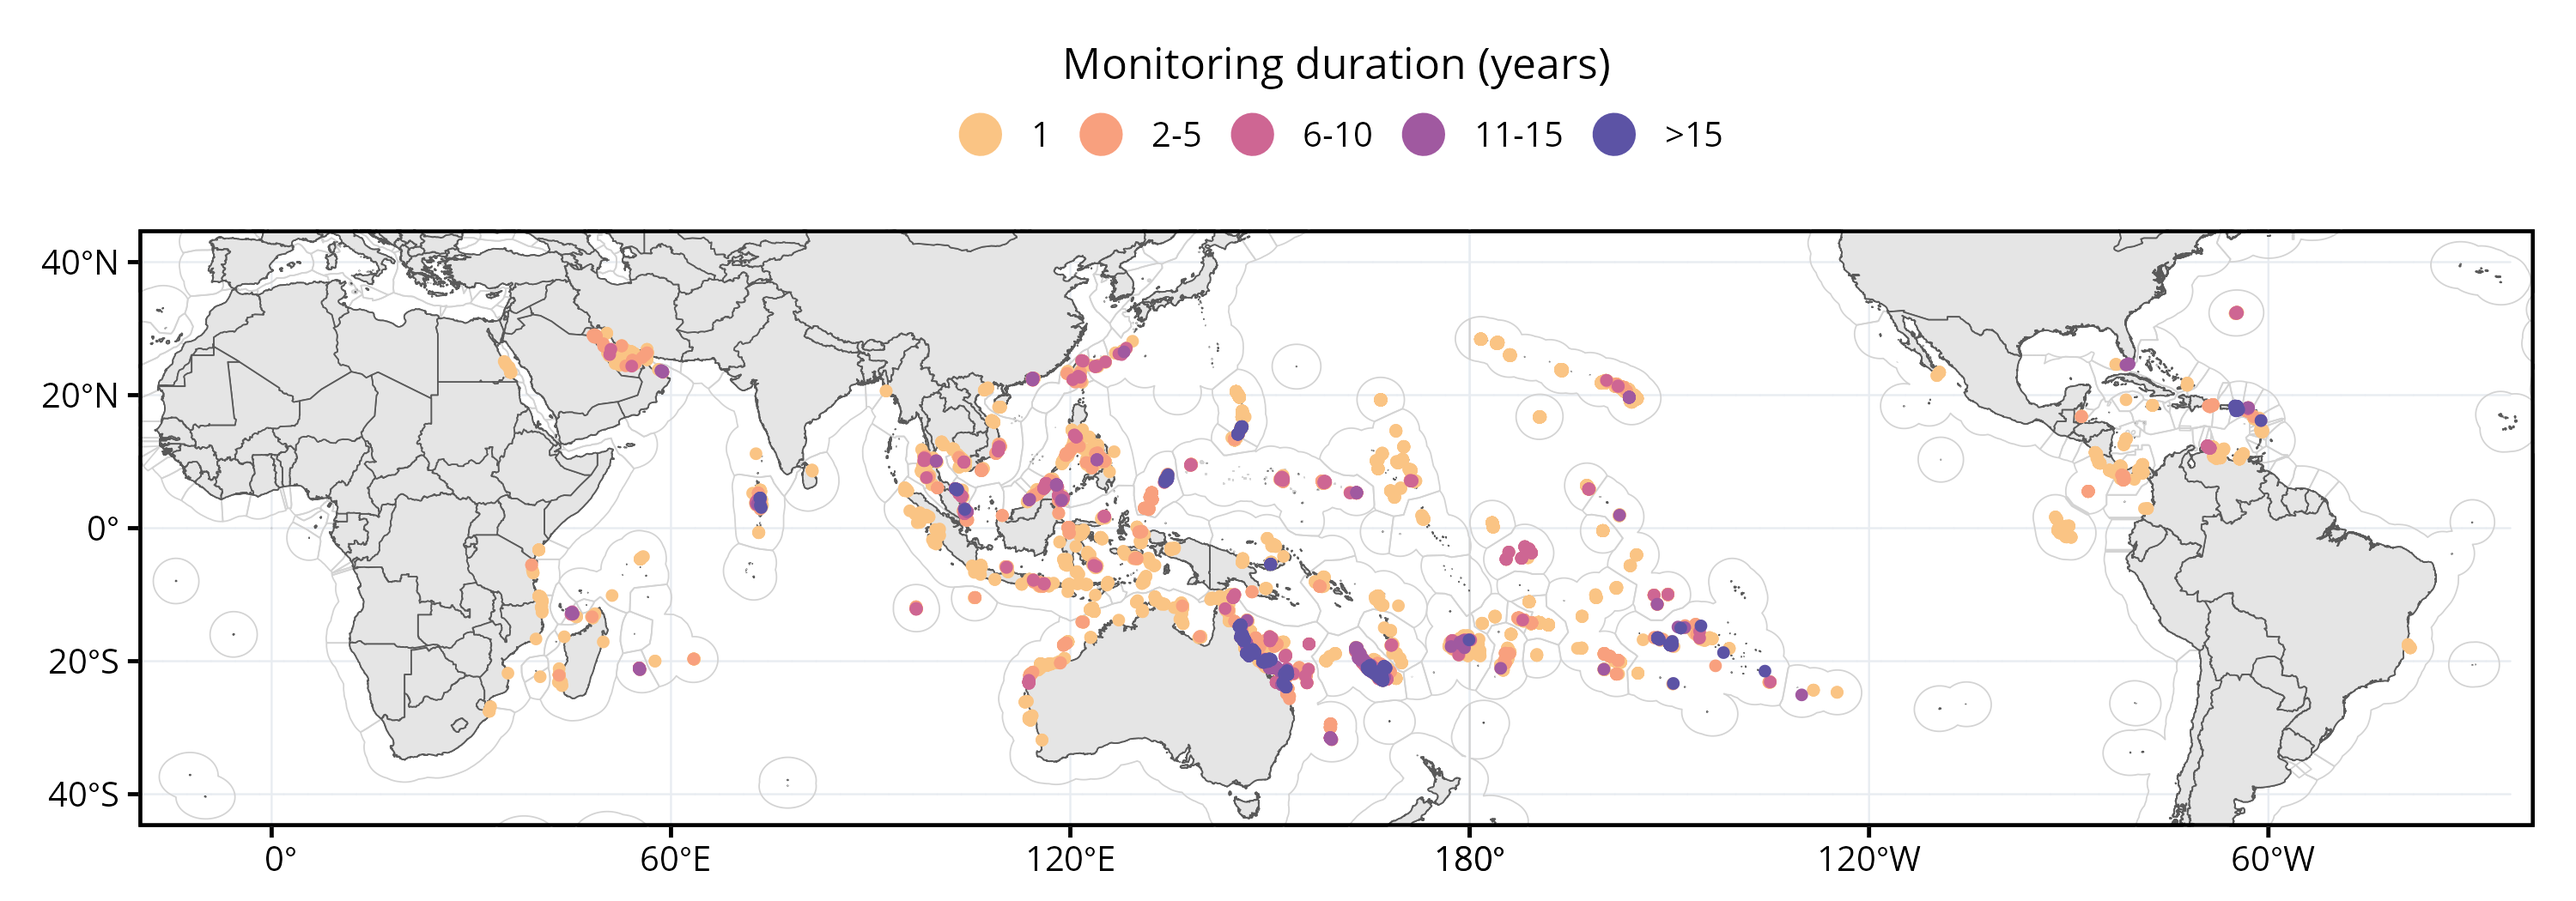
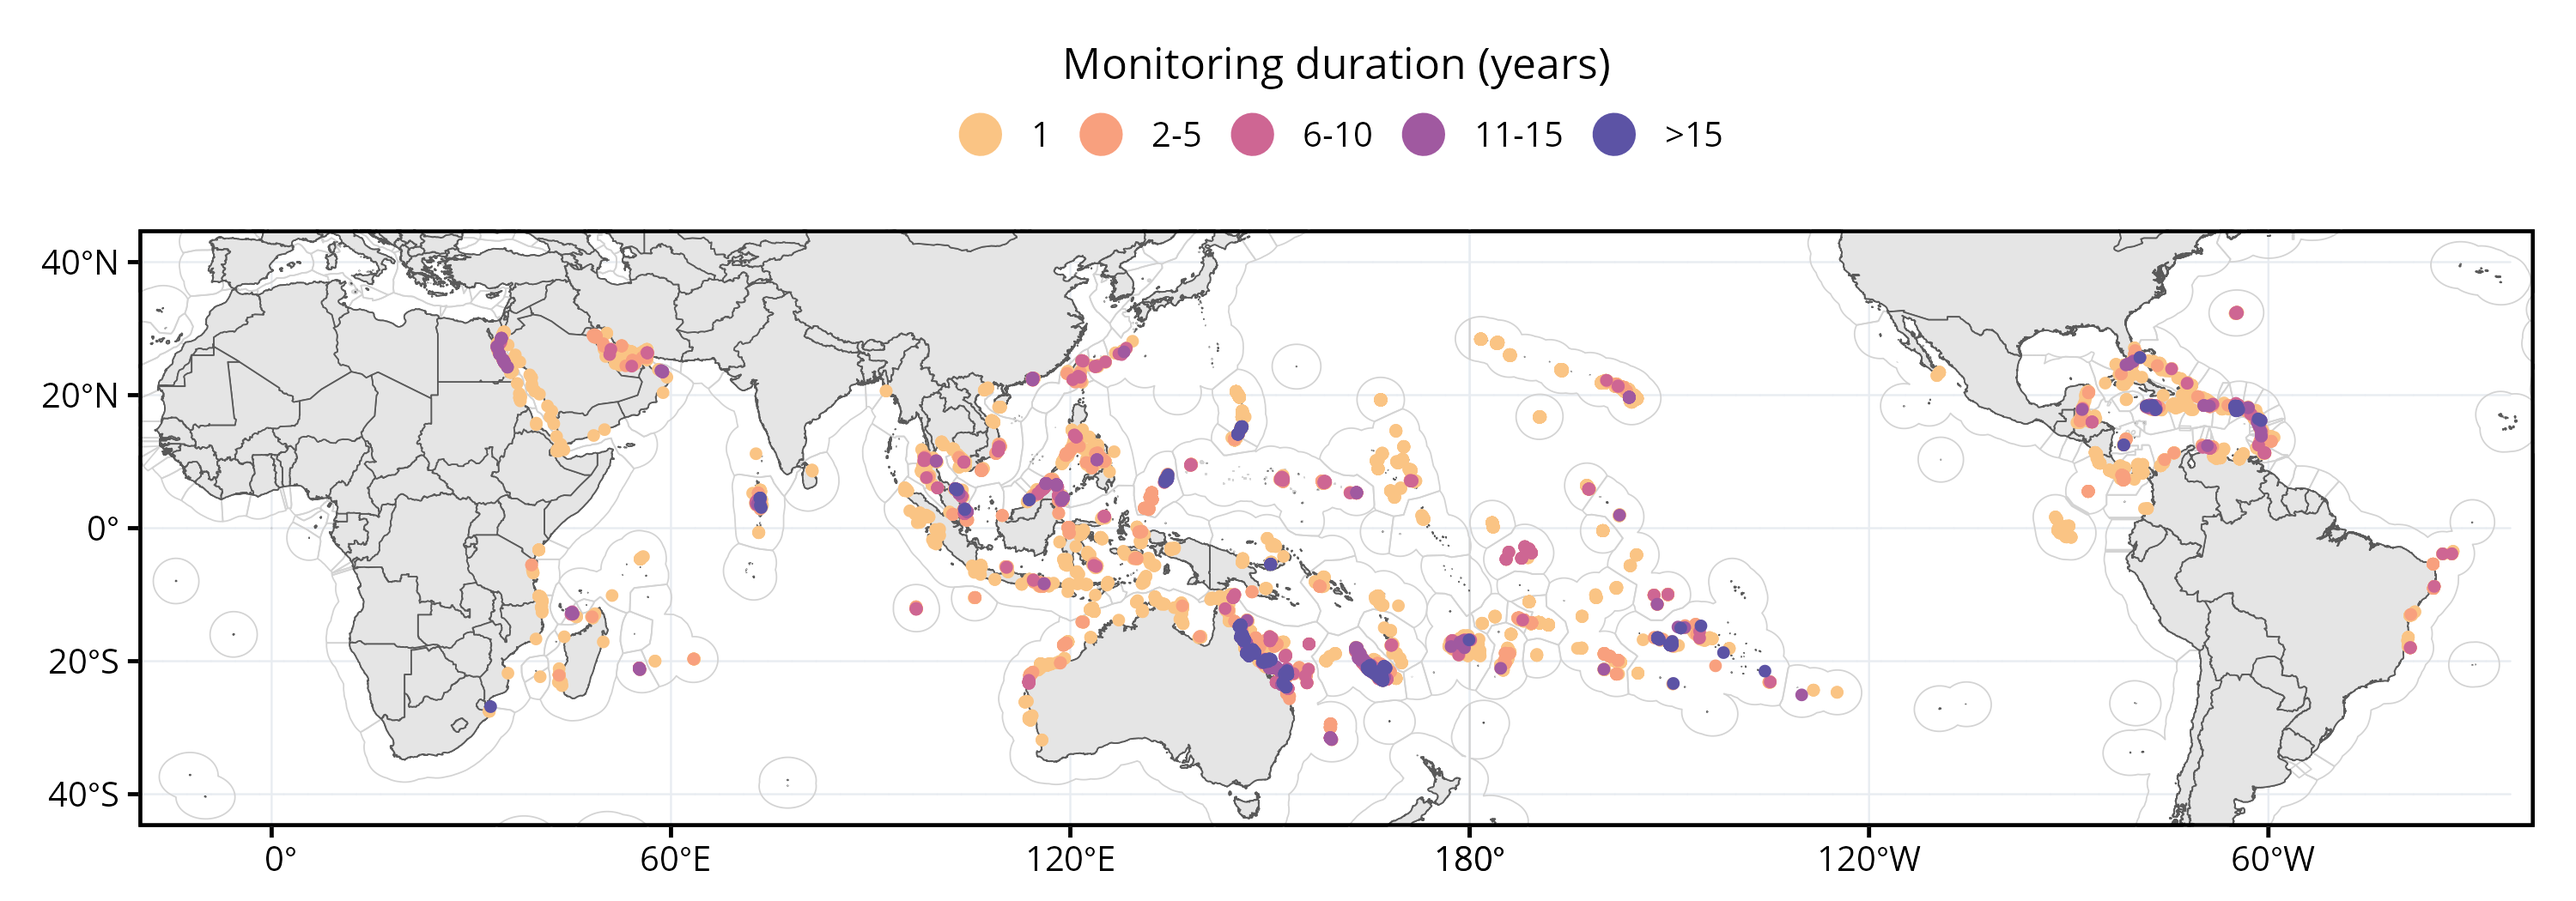
update standardization for dataset 0015

diff --git a/README.md b/README.md
@@ -237,7 +237,7 @@ considered. The column names (except *aggregator*) correspond to
 | 0012 | [NCRMP - CNMI and Guam](https://www.ncei.noaa.gov/access/metadata/landing-page/bin/iso?id=gov.noaa.nodc:NCRMP-StRS-Images-Marianas) | open | Rp. | 2018-10-12 | JW |
 | 0013 | [NCRMP - Hawaii](https://www.ncei.noaa.gov/access/metadata/landing-page/bin/iso?id=gov.noaa.nodc:NCRMP-StRS-Images-HI) | open | Rp. | 2022-11-11 | JW |
 | 0014 | [NCRMP - PRIA](https://www.ncei.noaa.gov/access/metadata/landing-page/bin/iso?id=gov.noaa.nodc:NCRMP-StRS-Images-PRIA) | open | Rp. | 2021-07-30 | JW |
-| 0015 | [ReefCheck - Indo-Pacific](https://www.reefcheck.org/tropical-program/tropical-monitoring-instruction/) | upon request | Db. |  | JW |
+| 0015 | [Reef Check Foundation](https://www.reefcheck.org/tropical-program/tropical-monitoring-instruction/) | upon request | Db. | 2024-10-16 | JW |
 | 0016 | Biosphere Foundation | upon request | Sh. |  | JW |
 | 0017 | KNS | upon request | Sh. | 2022-12-27 | JW |
 | 0018 | Kiribati | upon request | Sh. | 2020-03-05 | JW |
@@ -309,16 +309,16 @@ considered. The column names (except *aggregator*) correspond to
 | 0084 | [Curacao](https://www.researchstationcarmabi.org/) | upon request | Sh. | 2024-10-10 | JW |
 | 0085 | [BREAM](https://www.bermudabream.com/) | upon request | Sh. | 2024-10-10 | JW |
 | 0086 | [Fundacion Cap Cana](https://www.fundacioncapcana.org/) | upon request | Sh. | 2024-10-10 | JW |
-| 0087 | Petite-Terre | upon request | Sh. | 2024-10-10 | JW |
+| 0087 | Titè - ONF | upon request | Sh. | 2024-10-10 | JW |
 | 0088 | Grand Cayman | upon request | Sh. | 2024-10-11 | JW |
 | 0089 | [Coral Cay Conservation](https://www.coralcay.org/) | upon request | Sh. | 2024-10-14 | JW |
 | 0090 | [Montilla et al, 2021](https://doi.org/10.1016/j.dib.2021.107235) | open | Pa. | 2024-10-15 | JW |
 
 ## 6. Description of the synthetic dataset
 
-On the 2024-10-15, the `gcrmndb_benthos` synthetic dataset contains a
-total of **15,193,568 observations** (*i.e* rows) representing **13,382
-sites** and **29,258 surveys**. The distribution of monitoring sites in
+On the 2024-10-16, the `gcrmndb_benthos` synthetic dataset contains a
+total of **15,420,464 observations** (*i.e* rows) representing **14,959
+sites** and **33,196 surveys**. The distribution of monitoring sites in
 time and space is shown in **Figure 2**. An interactive version of this
 map is available on [Google Earth
 Engine](https://jeremywicquart.users.earthengine.app/view/gcrmndbbenthos).
@@ -345,17 +345,17 @@ that differs from those of the other datasets.
 
 |         GCRMN region | Sites (n) | Surveys (n) | Datasets (n) | First year | Last year |
 |---------------------:|----------:|------------:|-------------:|:----------:|:---------:|
-|            Australia |     1,252 |       5,362 |            3 |    1995    |   2023    |
-|               Brazil |        10 |          11 |            1 |    2012    |   2012    |
-|            Caribbean |       755 |       2,329 |           20 |    1987    |   2024    |
-|                  EAS |     2,889 |       5,843 |            5 |    1997    |   2023    |
-|                  ETP |       241 |         285 |            2 |    1998    |   2018    |
-|               PERSGA |        12 |          12 |            1 |    2011    |   2011    |
-|              Pacific |     7,759 |      14,520 |           51 |    1987    |   2024    |
-|                ROPME |       133 |         303 |           16 |    1999    |   2023    |
-|           South Asia |       163 |         229 |            2 |    1997    |   2022    |
-|                  WIO |       168 |         364 |            2 |    1997    |   2019    |
-| Global (all regions) |    13,382 |      29,258 |           88 |    1987    |   2024    |
+|            Australia |     1,268 |       5,579 |            3 |    1995    |   2023    |
+|               Brazil |       138 |         189 |            2 |    2002    |   2012    |
+|            Caribbean |     1,737 |       4,408 |           21 |    1987    |   2024    |
+|                  EAS |     2,998 |       6,496 |            5 |    1997    |   2024    |
+|                  ETP |       246 |         299 |            2 |    1998    |   2018    |
+|               PERSGA |       249 |         564 |            2 |    1997    |   2024    |
+|              Pacific |     7,761 |      14,604 |           51 |    1987    |   2024    |
+|                ROPME |       229 |         455 |           17 |    1997    |   2024    |
+|           South Asia |       165 |         237 |            2 |    1997    |   2023    |
+|                  WIO |       168 |         365 |            2 |    1997    |   2023    |
+| Global (all regions) |    14,959 |      33,196 |           88 |    1987    |   2024    |
 
 **Table 7.** Summary of the content of the `gcrmndb_benthos` synthetic
 dataset per country and territory. The total number of datasets
@@ -367,94 +367,121 @@ differs from those of the other datasets.
 
 | Country | Territory | Sites (n) | Surveys (n) | Datasets (n) | First year | Last year |
 |---:|:---|---:|---:|---:|:--:|:--:|
-| Australia | Australia | 1,223 | 5,296 | 3 | 1995 | 2023 |
+| Antigua and Barbuda | Antigua and Barbuda | 4 | 4 | 1 | 2003 | 2004 |
+| Australia | Australia | 1,239 | 5,513 | 3 | 1995 | 2023 |
 | Australia | Christmas Island | 16 | 30 | 2 | 2003 | 2010 |
 | Australia | Cocos Islands | 20 | 49 | 1 | 1997 | 2008 |
-| Bahrain | Bahrain | 15 | 19 | 2 | 2011 | 2022 |
+| Bahamas | Bahamas | 36 | 72 | 1 | 1999 | 2024 |
+| Bahrain | Bahrain | 23 | 33 | 3 | 1997 | 2022 |
 | Bangladesh | Bangladesh | 2 | 2 | 1 | 2005 | 2006 |
-| Belize | Belize | 12 | 22 | 1 | 2015 | 2018 |
-| Brazil | Brazil | 10 | 11 | 1 | 2012 | 2012 |
+| Barbados | Barbados | 26 | 45 | 1 | 1997 | 2005 |
+| Belize | Belize | 85 | 133 | 2 | 1997 | 2024 |
+| Brazil | Brazil | 138 | 189 | 2 | 2002 | 2012 |
 | Brunei | Brunei | 38 | 45 | 1 | 1997 | 2016 |
 | Cambodia | Cambodia | 96 | 103 | 2 | 1998 | 2013 |
 | China | China | 100 | 366 | 1 | 1997 | 2012 |
-| Colombia | Colombia | 20 | 20 | 2 | 1998 | 2011 |
-| Costa Rica | Costa Rica | 51 | 64 | 2 | 2004 | 2011 |
-| Dominican Republic | Dominican Republic | 276 | 432 | 3 | 2020 | 2024 |
+| Colombia | Colombia | 91 | 120 | 2 | 1997 | 2024 |
+| Costa Rica | Costa Rica | 56 | 78 | 2 | 2004 | 2011 |
+| Cuba | Cuba | 16 | 25 | 1 | 2001 | 2005 |
+| Djibouti | Djibouti | 23 | 23 | 1 | 2005 | 2008 |
+| Dominica | Dominica | 19 | 33 | 1 | 2004 | 2018 |
+| Dominican Republic | Dominican Republic | 352 | 566 | 4 | 2004 | 2024 |
 | East Timor | East Timor | 11 | 13 | 2 | 2004 | 2017 |
 | Ecuador | Galapagos | 64 | 64 | 1 | 2008 | 2012 |
-| Egypt | Egypt | 12 | 12 | 1 | 2011 | 2011 |
+| Egypt | Egypt | 181 | 487 | 2 | 1997 | 2024 |
+| Eritrea | Eritrea | 2 | 2 | 1 | 2000 | 2000 |
+| Federal Republic of Somalia | Federal Republic of Somalia | 1 | 1 | 1 | 2005 | 2005 |
 | Fiji | Fiji | 589 | 913 | 12 | 1997 | 2024 |
-| France | Collectivity of Saint Martin | 8 | 65 | 1 | 2007 | 2022 |
+| France | Collectivity of Saint Martin | 12 | 83 | 2 | 2007 | 2022 |
 | France | Europa Island | 1 | 1 | 1 | 2002 | 2002 |
-| France | French Polynesia | 228 | 2,107 | 8 | 1987 | 2023 |
-| France | Guadeloupe | 12 | 36 | 2 | 2007 | 2023 |
-| France | Martinique | 15 | 15 | 1 | 2022 | 2022 |
+| France | French Polynesia | 229 | 2,190 | 8 | 1987 | 2024 |
+| France | Guadeloupe | 23 | 111 | 3 | 2003 | 2023 |
+| France | Martinique | 22 | 38 | 2 | 2003 | 2024 |
 | France | Mayotte | 20 | 87 | 1 | 2003 | 2017 |
 | France | New Caledonia | 873 | 3,616 | 9 | 1997 | 2023 |
 | France | Réunion | 32 | 133 | 1 | 2003 | 2016 |
+| France | Saint-Barthélemy | 2 | 2 | 1 | 2018 | 2018 |
 | France | Wallis and Futuna | 12 | 12 | 1 | 2019 | 2019 |
+| Grenada | Grenada | 10 | 33 | 1 | 2004 | 2024 |
+| Guatemala | Guatemala | 4 | 4 | 1 | 2006 | 2006 |
+| Haiti | Haiti | 73 | 74 | 1 | 2003 | 2016 |
+| Honduras | Honduras | 79 | 159 | 1 | 1997 | 2016 |
 | India | India | 1 | 1 | 1 | 1998 | 1998 |
-| Indonesia | Indonesia | 668 | 1,049 | 2 | 1997 | 2022 |
-| Iran | Iran | 28 | 49 | 1 | 1999 | 2021 |
-| Jamaica | Jamaica | 8 | 8 | 1 | 2019 | 2020 |
+| Indonesia | Indonesia | 673 | 1,082 | 2 | 1997 | 2024 |
+| Iran | Iran | 42 | 67 | 2 | 1999 | 2021 |
+| Israel | Israel | 4 | 4 | 1 | 1997 | 2001 |
+| Jamaica | Jamaica | 124 | 406 | 2 | 1998 | 2021 |
 | Japan | Japan | 52 | 110 | 2 | 1997 | 2015 |
+| Jordan | Jordan | 3 | 3 | 1 | 2008 | 2008 |
 | Kenya | Kenya | 6 | 6 | 1 | 2003 | 2004 |
 | Kiribati | Gilbert Islands | 18 | 18 | 2 | 2011 | 2018 |
 | Kiribati | Line Group | 97 | 125 | 3 | 2009 | 2023 |
 | Kiribati | Phoenix Group | 58 | 123 | 1 | 2009 | 2018 |
-| Kuwait | Kuwait | 10 | 19 | 2 | 2010 | 2014 |
+| Kuwait | Kuwait | 13 | 23 | 3 | 2006 | 2014 |
 | Madagascar | Madagascar | 43 | 55 | 1 | 2001 | 2019 |
-| Malaysia | Malaysia | 626 | 2,195 | 2 | 1997 | 2021 |
-| Maldives | Maldives | 157 | 223 | 2 | 1997 | 2022 |
+| Malaysia | Malaysia | 729 | 2,814 | 2 | 1997 | 2023 |
+| Maldives | Maldives | 159 | 231 | 2 | 1997 | 2023 |
 | Marshall Islands | Marshall Islands | 147 | 174 | 3 | 2002 | 2020 |
-| Mexico | Mexico | 9 | 10 | 1 | 2018 | 2018 |
+| Mexico | Mexico | 40 | 75 | 2 | 1997 | 2018 |
 | Micronesia | Federated States of Micronesia | 217 | 548 | 3 | 2000 | 2020 |
-| Mozambique | Mozambique | 14 | 15 | 2 | 1997 | 2012 |
+| Mozambique | Mozambique | 14 | 16 | 2 | 1997 | 2023 |
 | Myanmar | Myanmar | 22 | 29 | 1 | 2001 | 2013 |
-| Netherlands | Bonaire | 17 | 17 | 2 | 2012 | 2023 |
-| Netherlands | Curaçao | 121 | 241 | 1 | 2015 | 2023 |
+| Netherlands | Aruba | 6 | 7 | 1 | 2003 | 2009 |
+| Netherlands | Bonaire | 20 | 24 | 3 | 1997 | 2023 |
+| Netherlands | Curaçao | 143 | 380 | 2 | 1998 | 2023 |
 | Netherlands | Saba | 18 | 46 | 1 | 2021 | 2024 |
-| Netherlands | Sint-Maarten | 7 | 51 | 1 | 2016 | 2024 |
+| Netherlands | Sint-Eustatius | 3 | 13 | 1 | 2005 | 2010 |
+| Netherlands | Sint-Maarten | 12 | 56 | 2 | 2005 | 2024 |
 | New Zealand | Cook Islands | 184 | 239 | 5 | 2005 | 2023 |
 | New Zealand | Niue | 7 | 7 | 1 | 2011 | 2011 |
 | Nicaragua | Nicaragua | 23 | 23 | 1 | 2011 | 2015 |
-| Oman | Oman | 31 | 136 | 5 | 2003 | 2022 |
+| Oman | Oman | 81 | 217 | 6 | 2003 | 2022 |
 | Palau | Palau | 112 | 381 | 3 | 1997 | 2022 |
-| Panama | Panama | 114 | 235 | 2 | 2007 | 2024 |
+| Panama | Panama | 123 | 245 | 3 | 1997 | 2024 |
 | Papua New Guinea | Papua New Guinea | 91 | 267 | 4 | 1998 | 2019 |
 | Philippines | Philippines | 842 | 1,136 | 3 | 1997 | 2023 |
 | Qatar | Qatar | 16 | 16 | 1 | 2015 | 2017 |
 | Republic of Mauritius | Republic of Mauritius | 10 | 12 | 1 | 1999 | 2003 |
+| Saint Kitts and Nevis | Saint Kitts and Nevis | 13 | 30 | 1 | 2004 | 2024 |
+| Saint Lucia | Saint Lucia | 21 | 61 | 1 | 1999 | 2014 |
+| Saint Vincent and the Grenadines | Saint Vincent and the Grenadines | 13 | 21 | 1 | 2004 | 2007 |
 | Samoa | Samoa | 49 | 89 | 4 | 2012 | 2022 |
-| Saudi Arabia | Saudi Arabia | 4 | 12 | 1 | 2018 | 2023 |
+| Saudi Arabia | Saudi Arabia | 26 | 40 | 2 | 1997 | 2024 |
 | Seychelles | Seychelles | 19 | 19 | 2 | 1997 | 2012 |
 | Solomon Islands | Solomon Islands | 144 | 242 | 5 | 2005 | 2021 |
 | South Africa | South Africa | 5 | 6 | 1 | 2001 | 2005 |
 | Sri Lanka | Sri Lanka | 3 | 3 | 1 | 2003 | 2003 |
+| Sudan | Sudan | 11 | 14 | 1 | 2004 | 2009 |
 | Taiwan | Taiwan | 103 | 195 | 1 | 1997 | 2020 |
 | Tanzania | Tanzania | 18 | 30 | 2 | 1997 | 2012 |
-| Thailand | Thailand | 149 | 246 | 1 | 1998 | 2022 |
+| Thailand | Thailand | 150 | 247 | 1 | 1998 | 2023 |
 | Tonga | Tonga | 526 | 572 | 7 | 2002 | 2022 |
-| United Arab Emirates | United Arab Emirates | 29 | 52 | 7 | 2015 | 2023 |
+| Trinidad and Tobago | Trinidad and Tobago | 27 | 90 | 1 | 2007 | 2023 |
+| United Arab Emirates | Abu musa, Greater and Lesser Tunb | 7 | 7 | 1 | 2016 | 2017 |
+| United Arab Emirates | United Arab Emirates | 40 | 77 | 8 | 2004 | 2024 |
+| United Kingdom | Anguilla | 1 | 1 | 1 | 2002 | 2002 |
 | United Kingdom | Bermuda | 40 | 88 | 1 | 2015 | 2021 |
-| United Kingdom | Cayman Islands | 1 | 1 | 1 | 2011 | 2011 |
-| United Kingdom | Montserrat | 81 | 100 | 1 | 2013 | 2017 |
+| United Kingdom | British Virgin Islands | 20 | 66 | 1 | 1997 | 2012 |
+| United Kingdom | Cayman Islands | 3 | 3 | 2 | 1997 | 2011 |
+| United Kingdom | Montserrat | 87 | 109 | 2 | 2005 | 2017 |
 | United Kingdom | Pitcairn | 6 | 12 | 2 | 2009 | 2023 |
-| United Kingdom | Turks and Caicos Islands | 4 | 4 | 1 | 2015 | 2015 |
+| United Kingdom | Turks and Caicos Islands | 43 | 54 | 2 | 2004 | 2018 |
 | United States | American Samoa | 843 | 903 | 4 | 1997 | 2019 |
 | United States | Guam | 305 | 357 | 4 | 1997 | 2021 |
-| United States | Hawaii | 1,733 | 1,923 | 4 | 1997 | 2021 |
+| United States | Hawaii | 1,734 | 1,924 | 4 | 1997 | 2021 |
 | United States | Howland and Baker Islands | 150 | 150 | 1 | 2015 | 2017 |
 | United States | Jarvis Island | 222 | 222 | 1 | 2015 | 2017 |
 | United States | Johnston Atoll | 46 | 46 | 1 | 2015 | 2015 |
 | United States | Northern Mariana Islands | 680 | 907 | 3 | 1999 | 2020 |
 | United States | Palmyra Atoll | 194 | 294 | 2 | 2009 | 2019 |
-| United States | United States | 17 | 28 | 1 | 2010 | 2022 |
-| United States | United States Virgin Islands | 42 | 1,008 | 3 | 1987 | 2024 |
+| United States | Puerto Rico | 20 | 34 | 1 | 2014 | 2024 |
+| United States | United States | 106 | 154 | 2 | 1997 | 2024 |
+| United States | United States Virgin Islands | 65 | 1,032 | 4 | 1987 | 2024 |
 | United States | Wake Island | 146 | 146 | 1 | 2014 | 2017 |
 | Vanuatu | Vanuatu | 75 | 114 | 3 | 2004 | 2023 |
-| Venezuela | Venezuela | 36 | 36 | 1 | 2017 | 2018 |
+| Venezuela | Venezuela | 38 | 45 | 2 | 2004 | 2018 |
 | Vietnam | Vietnam | 182 | 356 | 1 | 1998 | 2011 |
+| Yemen | Yemen | 5 | 5 | 1 | 2008 | 2008 |
 
 ## 7. Sponsors
 
@@ -524,7 +551,7 @@ The following organizations have funded the realization of the
      collate  French_France.utf8
      ctype    French_France.utf8
      tz       Europe/Paris
-     date     2024-10-15
+     date     2024-10-16
      pandoc   3.2 @ C:/Program Files/RStudio/resources/app/bin/quarto/bin/tools/ (via rmarkdown)
 
     ─ Packages ───────────────────────────────────────────────────────────────────
